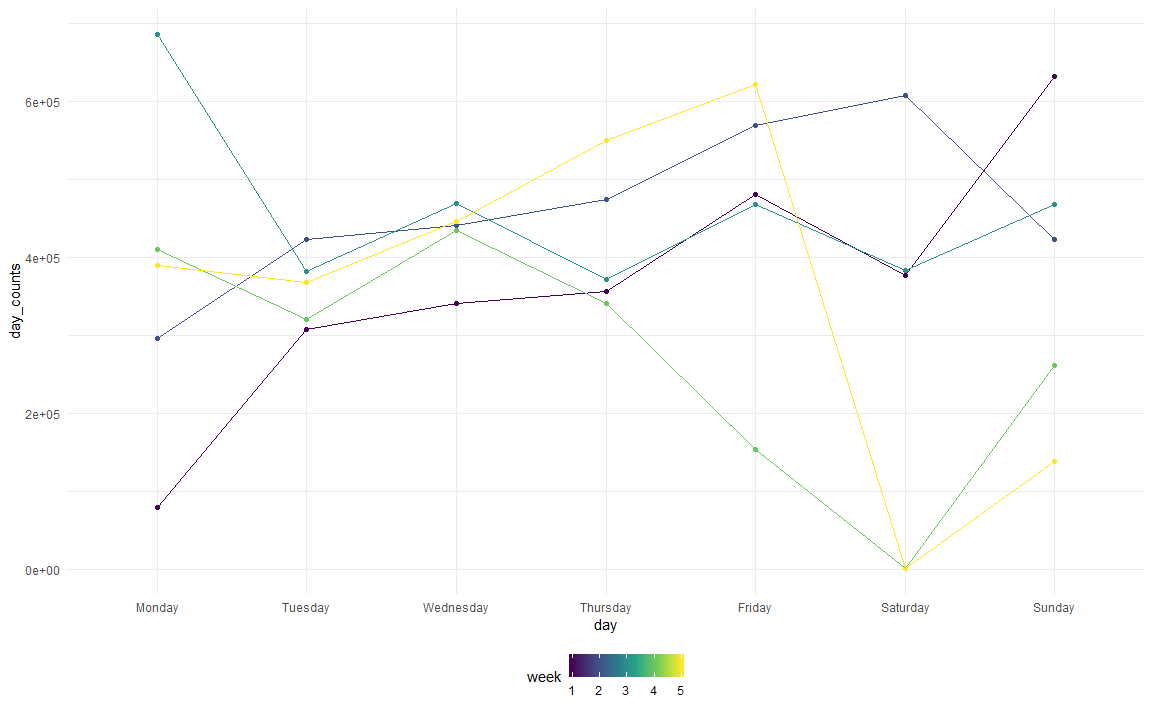
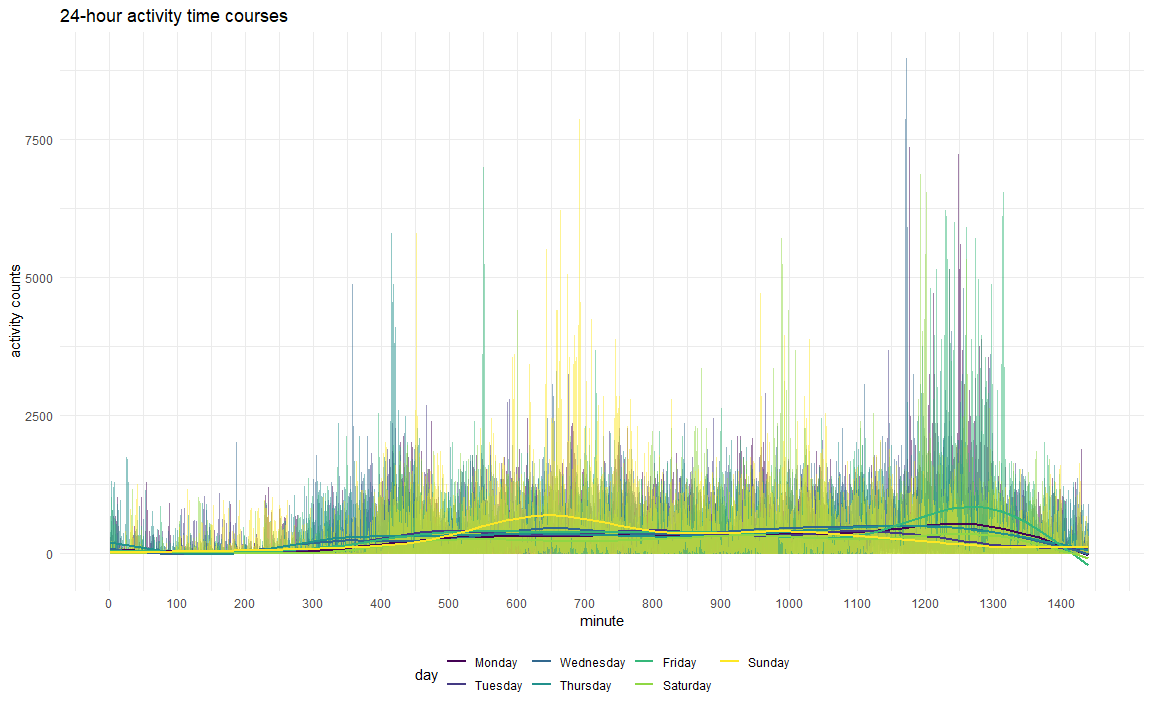
Modified

diff --git a/p8105_hw3_yq2279.md b/p8105_hw3_yq2279.md
@@ -5,9 +5,7 @@ Qi Yuchen
 
 # Problem 1
 
-  - description of the dataset
-
-<!-- end list -->
+### A short description of the dataset
 
 ``` r
 library(p8105.datasets)
@@ -52,15 +50,21 @@ str(instacart)
     ##   ..   department = col_character()
     ##   .. )
 
-The size of the dataset is 1384617 observations and 15 variables. The
-data structures in this dataset are integer and character. The key
-variables include “reordered”, “aisle”, “department”, and
-“product\_name”. ???giving illstrative examples of observations
+The size of the dataset is 1384617 observations and 15 variables.  
+The data structures in this dataset are integer and character.  
+The key variables include “reordered” which indicates if this prodcut
+has been ordered by this user before, “aisle” which is the name of the
+aisle, “department” which is the name of the department, and
+“product\_name” which is the name of the product.  
+To illustrate the observations, take the first observation as an
+example. The user with user\_id 112108 buys the product Bulgarian Yogurt
+which has been bought by this costumer before indicated by the variable
+reordered. This product belong to the yogurt aisle in the dairy eggs
+department. Put the first to eighth observations together, they form one
+order from user 112108, which is this user’s fourth order and placed at
+10 at the day. It has been 9 days since the last order.
 
-  - How many aisles are there, and which aisles are the most items
-    ordered from?
-
-<!-- end list -->
+### Number of aisles and which aisles the most items are ordered from
 
 ``` r
 # number of aisles
@@ -92,11 +96,7 @@ There are 134 aisles, and the aisle that the most items are ordered from
 is fresh vegetables, followed by fresh fruits and packaged vegetables
 fruits.
 
-  - Make a plot that shows the number of items ordered in each aisle,
-    limiting this to aisles with more than 10000 items ordered. Arrange
-    aisles sensibly, and organize your plot so others can read it.
-
-<!-- end list -->
+### A plot that shows the number of items ordered in each aisle with more than 10000 items ordered
 
 ``` r
 instacart %>% 
@@ -111,17 +111,12 @@ instacart %>%
     x = "aisle",
     y = "number of items"
   ) +
-  theme(axis.text.x=element_blank())
+  coord_flip()
 ```
 
-<img src="p8105_hw3_yq2279_files/figure-gfm/unnamed-chunk-4-1.png" width="90%" />
+<img src="p8105_hw3_yq2279_files/figure-gfm/unnamed-chunk-3-1.png" width="90%" />
 
-  - Make a table showing the three most popular items in each of the
-    aisles “baking ingredients”, “dog food care”, and “packaged
-    vegetables fruits”. Include the number of times each item is ordered
-    in your table.
-
-<!-- end list -->
+### A table showing the three most popular items in each of the aisles “baking ingredients”, “dog food care”, and “packaged vegetables fruits”
 
 ``` r
 instacart %>%
@@ -144,11 +139,7 @@ instacart %>%
 | packaged vegetables fruits | Organic Blueberries                           |       4966 |
 | packaged vegetables fruits | Organic Raspberries                           |       5546 |
 
-  - Make a table showing the mean hour of the day at which Pink Lady
-    Apples and Coffee Ice Cream are ordered on each day of the week;
-    format this table for human readers (i.e. produce a 2 x 7 table).
-
-<!-- end list -->
+### A table showing the mean hour of the day at which Pink Lady Apples and Coffee Ice Cream are ordered
 
 ``` r
 instacart %>%
@@ -170,9 +161,7 @@ instacart %>%
 
 # Problem 2
 
-  - Do some data cleaning.
-
-<!-- end list -->
+### Do some data cleaning
 
 ``` r
 data("BRFSS")
@@ -190,10 +179,7 @@ df_BRFSS = brfss_smart2010 %>%
   mutate(response = forcats::fct_relevel(response, c("Poor", "Fair", "Good", "Very good", "Excellent")))
 ```
 
-  - In 2002, which states were observed at 7 or more locations? What
-    about in 2010?
-
-<!-- end list -->
+### States observed at 7 or more locations in 2002 and 2010
 
 ``` r
 # 2002
@@ -215,80 +201,46 @@ In 2002, CT, FL, MA, NC, NJ, PA were observed at 7 or more locations. In
 2010, CA, CO, FL, MA, MD, NC, NE, NJ, NY, OH, PA, SC, TX, WA were
 observed at 7 or more locations.
 
-  - Construct a dataset that is limited to Excellent responses, and
-    contains, year, state, and a variable that averages the data\_value
-    across locations within a state. Make a “spaghetti” plot of this
-    average value over time within a state (that is, make a plot showing
-    a line for each state across years – the geom\_line geometry and
-    group aesthetic will help).
-
-<!-- end list -->
+### Construct a dataset and make a “spaghetti” plot
 
 ``` r
+# limited to Excellent responses, and contains year, state, and a variable that averages the data_value across locations within a state
 df_data_mean = df_BRFSS %>% 
   filter(response == "Excellent") %>% 
   rename(state = location_abbr) %>% 
   group_by(state, year) %>% 
   summarize(data_value_mean = mean(data_value, na.rm = TRUE))
 
+# a “spaghetti” plot of this average value over time within a state
 df_data_mean %>% 
-  ggplot(aes(x = year, y = data_value_mean)) +
-  geom_line(aes(color = state)) +
+  ggplot(aes(x = year, y = data_value_mean, color = state)) +
+  geom_line() + geom_point() +
   labs(
     title = "Average data value over time within a state",
     y = "average data value"
   ) 
 ```
 
-<img src="p8105_hw3_yq2279_files/figure-gfm/unnamed-chunk-9-1.png" width="90%" />
+<img src="p8105_hw3_yq2279_files/figure-gfm/unnamed-chunk-8-1.png" width="90%" />
 
-  - Make a two-panel plot showing, for the years 2006, and 2010,
-    distribution of data\_value for responses (“Poor” to “Excellent”)
-    among locations in NY State.
-
-<!-- end list -->
+### Make a two-panel plot showing distribution of data\_value for responses
 
 ``` r
+# for the years 2006, and 2010, among locations in NY State
 df_BRFSS %>% 
   filter((year == 2006 | year == 2010) & 
          location_abbr == "NY") %>% 
-  ggplot(aes(x = response, y = data_value, fill = location_desc)) + 
-  geom_bar(stat = "identity", position = "dodge", width = 0.5) + 
-  labs(title = "Distribution of data_value for responses among locations in NY State")
-```
-
-<img src="p8105_hw3_yq2279_files/figure-gfm/unnamed-chunk-10-1.png" width="90%" />
-
-``` r
+  ggplot(aes(x = response, y = data_value)) + 
+  geom_bar(aes(fill = location_desc), stat = "identity", position = "dodge") + 
+  labs(title = "Distribution of data_value for responses among locations in NY State") +
   facet_grid(~year)
 ```
 
-    ## <ggproto object: Class FacetGrid, Facet, gg>
-    ##     compute_layout: function
-    ##     draw_back: function
-    ##     draw_front: function
-    ##     draw_labels: function
-    ##     draw_panels: function
-    ##     finish_data: function
-    ##     init_scales: function
-    ##     map_data: function
-    ##     params: list
-    ##     setup_data: function
-    ##     setup_params: function
-    ##     shrink: TRUE
-    ##     train_scales: function
-    ##     vars: function
-    ##     super:  <ggproto object: Class FacetGrid, Facet, gg>
+<img src="p8105_hw3_yq2279_files/figure-gfm/unnamed-chunk-9-1.png" width="90%" />
 
 # Problem 3
 
-  - Load, tidy, and otherwise wrangle the data. Your final dataset
-    should include all originally observed variables and values; have
-    useful variable names; include a weekday vs weekend variable; and
-    encode data with reasonable variable classes. Describe the resulting
-    dataset (e.g. what variables exist, how many observations, etc).
-
-<!-- end list -->
+### Load, tidy, and otherwise wrangle the data
 
 ``` r
 df_accel = read_csv("./data/accel_data.csv") %>% 
@@ -301,6 +253,7 @@ df_accel = read_csv("./data/accel_data.csv") %>%
   select(week, day_id, day,weekday_or_weekend, everything()) %>% 
   mutate(
     day = as.factor(day), 
+    week = as.factor(week), 
     weekday_or_weekend = as.factor(weekday_or_weekend)
     ) %>% 
   mutate(day = forcats::fct_relevel(day, c("Monday", "Tuesday", "Wednesday", "Thursday", "Friday", "Saturday", "Sunday"))) %>% 
@@ -325,12 +278,7 @@ The variables in this dataset are week, day\_id, day,
 weekday\_or\_weekend, minite, minite\_counts, and there are 50400
 observations. The dataset covers 5 weeks which is 35 days.
 
-  - Traditional analyses of accelerometer data focus on the total
-    activity over the day. Using your tidied dataset, aggregate accross
-    minutes to create a total activity variable for each day, and create
-    a table showing these totals. Are any trends apparent?
-
-<!-- end list -->
+### Create a total activity variable for each day, and create a table showing these totals
 
 ``` r
 n_activity_day = df_accel %>% 
@@ -346,47 +294,48 @@ pivot_wider(
 ```
 
 | week | Monday | Tuesday | Wednesday | Thursday | Friday | Saturday | Sunday |
-| ---: | -----: | ------: | --------: | -------: | -----: | -------: | -----: |
-|    1 |  78828 |  307094 |    340115 |   355924 | 480543 |   376254 | 631105 |
-|    2 | 295431 |  423245 |    440962 |   474048 | 568839 |   607175 | 422018 |
-|    3 | 685910 |  381507 |    468869 |   371230 | 467420 |   382928 | 467052 |
-|    4 | 409450 |  319568 |    434460 |   340291 | 154049 |     1440 | 260617 |
-|    5 | 389080 |  367824 |    445366 |   549658 | 620860 |     1440 | 138421 |
+| :--- | -----: | ------: | --------: | -------: | -----: | -------: | -----: |
+| 1    |  78828 |  307094 |    340115 |   355924 | 480543 |   376254 | 631105 |
+| 2    | 295431 |  423245 |    440962 |   474048 | 568839 |   607175 | 422018 |
+| 3    | 685910 |  381507 |    468869 |   371230 | 467420 |   382928 | 467052 |
+| 4    | 409450 |  319568 |    434460 |   340291 | 154049 |     1440 | 260617 |
+| 5    | 389080 |  367824 |    445366 |   549658 | 620860 |     1440 | 138421 |
 
 ``` r
 n_activity_day %>% 
   ggplot(aes(x = day, y = day_counts, color = week, group = week)) +
   geom_point() +
-  geom_line()
+  geom_line() +
+  labs(
+    title = "Total activity over the day", 
+    y = "counts"
+    )
 ```
 
-<img src="p8105_hw3_yq2279_files/figure-gfm/unnamed-chunk-12-1.png" width="90%" />
+<img src="p8105_hw3_yq2279_files/figure-gfm/unnamed-chunk-11-1.png" width="90%" />
 
-There is no trend apparent based on the table and plot.
+On Tuesday and Wednsday, activity of different weeks are more stable
+compared to other days.
 
-  - Accelerometer data allows the inspection activity over the course of
-    the day. Make a single-panel plot that shows the 24-hour activity
-    time courses for each day and use color to indicate day of the week.
-    Describe in words any patterns or conclusions you can make based on
-    this graph.
-
-<!-- end list -->
+### Make a single-panel plot that shows the 24-hour activity time courses for each day
 
 ``` r
+#  use color to indicate day of the week
 df_accel %>% 
   ggplot(aes(x = minite, y = minite_counts, color = day, group = day)) +
-  geom_point(alpha = 0.3) +
+  geom_line(alpha = 0.5) +
   geom_smooth(se = FALSE) +
   scale_x_continuous(breaks = seq(0, 1400, by = 100), limits = c(0, 1450), labels = seq(0, 1400, by = 100)) +
   labs(
     x = "minute",
-    y = "activity counts"
+    y = "activity counts",
+    title = "24-hour activity time courses"
   )
 ```
 
     ## `geom_smooth()` using method = 'gam' and formula 'y ~ s(x, bs = "cs")'
 
-<img src="p8105_hw3_yq2279_files/figure-gfm/unnamed-chunk-13-1.png" width="90%" />
+<img src="p8105_hw3_yq2279_files/figure-gfm/unnamed-chunk-12-1.png" width="90%" />
 
-Activity counts are peak when it is around 650 and 1250 minites of the
-day most days.
+Activity counts are peak when it is around 11 am and 9 pm of the day
+most days.
